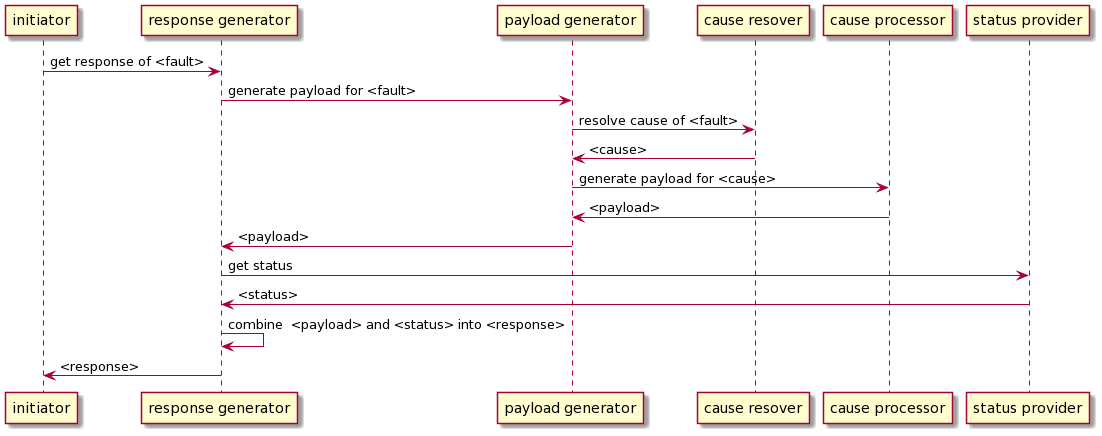
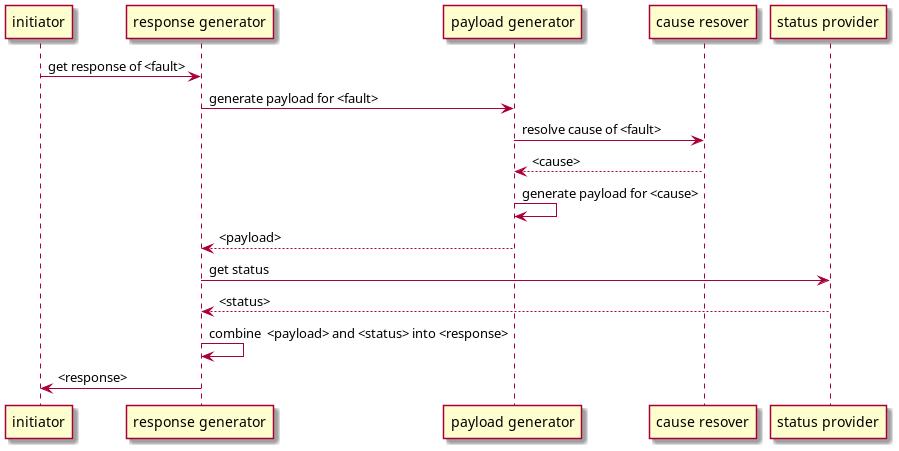
README updated

diff --git a/README.md b/README.md
@@ -38,8 +38,8 @@ As it was earlier spoken, in RESTX objects of any type can be treated as faults.
 represent different service errors and thus should be converted into payloads with different code and message (basing, for example, on one of 
 the fault's property).  
 To support such cases, payload generators use (fault) **causes** in their work. Causes can be understood as simple wrappers that let to 
-identify concrete "reasons of fault". They are created during payload generation process by **cause resolvers** and to be further used by 
-**cause processors** which are responsible for actual generation of response payloads.
+identify concrete "reasons of fault". They are created during payload generation process by **cause resolvers** and are further processed by 
+generators to generate actual payload of a response.
 
 ## Usage examples
 
